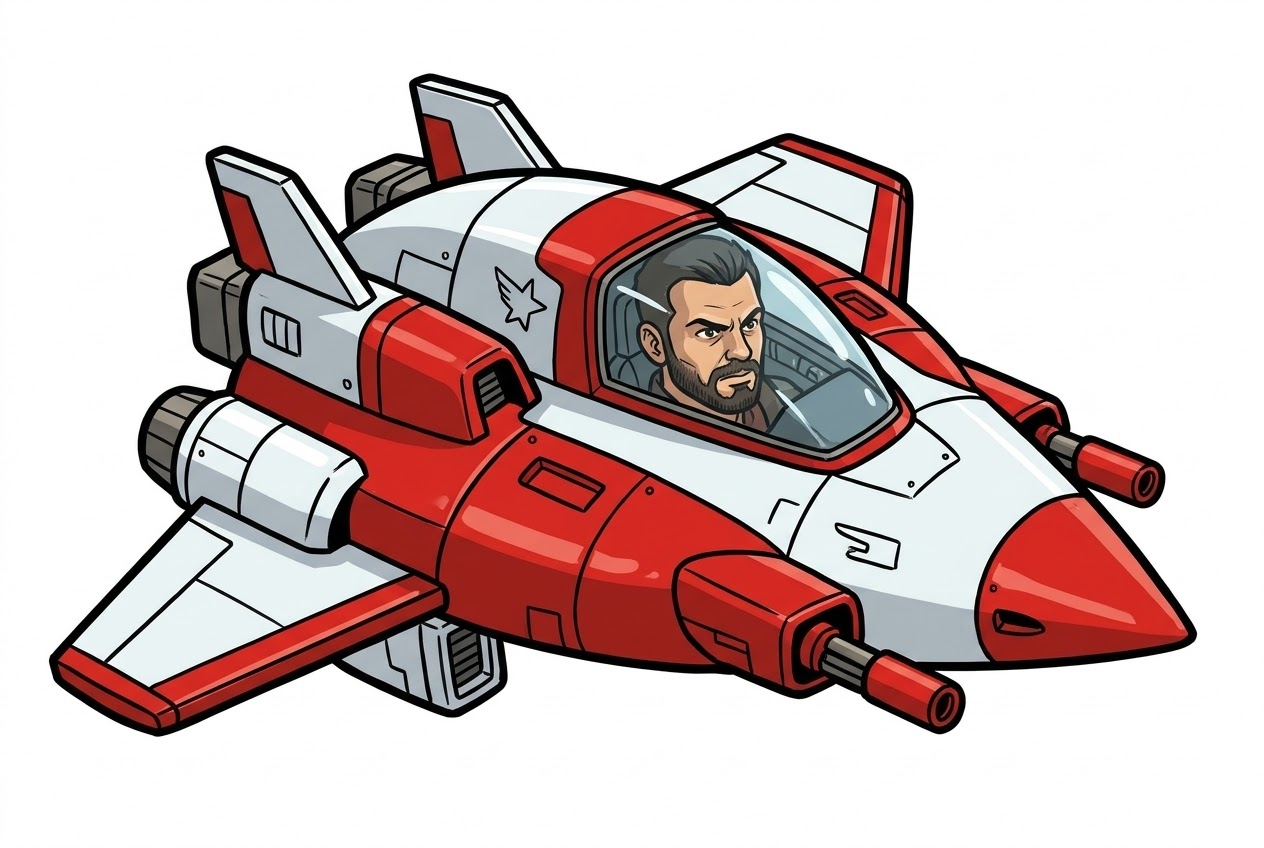
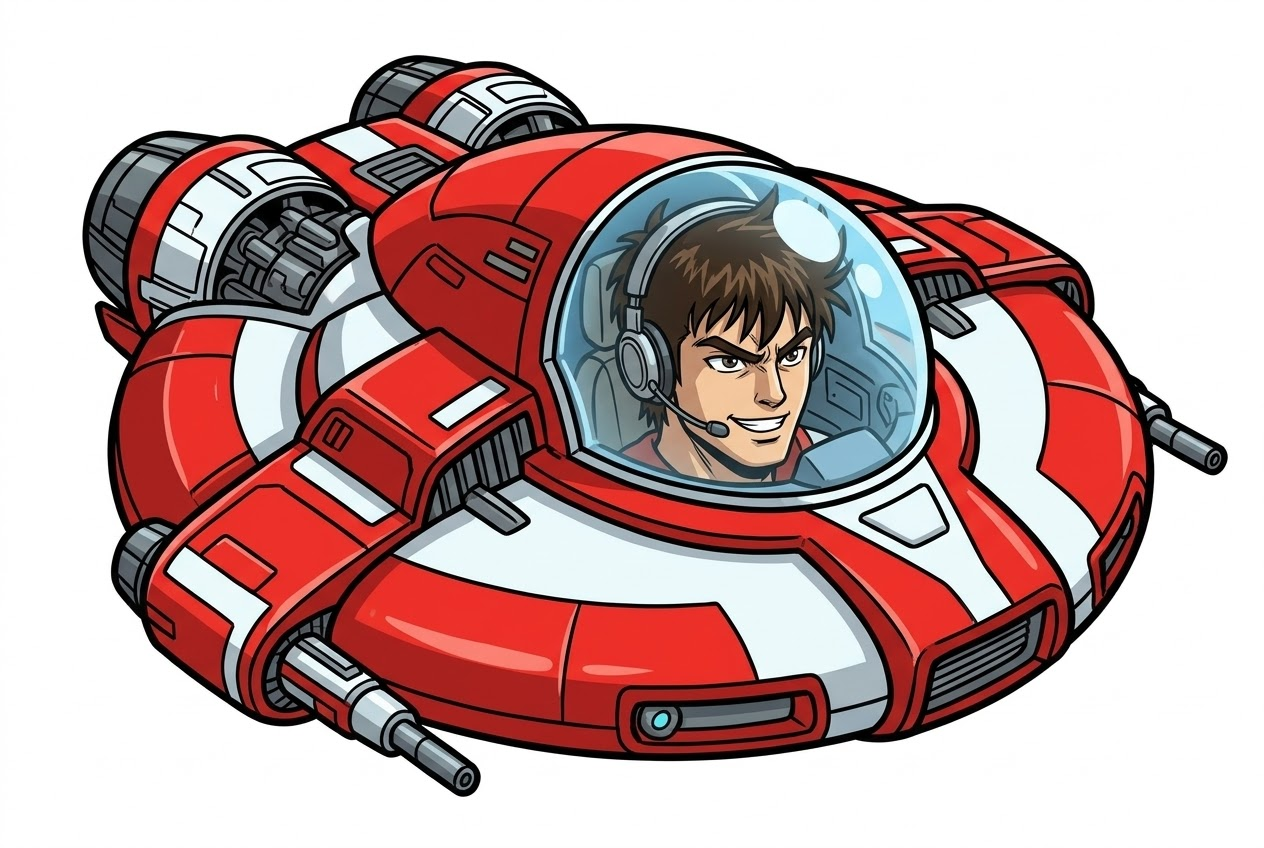
Boss final : le bon vaisseau du héros (soucoupe rouge et blanche)
Claude-Session: https://claude.ai/code/session_01Nh56uCfCYFQpr6HwXFtrQ7

diff --git a/src/bosses/finale/manifeste.js b/src/bosses/finale/manifeste.js
@@ -5,7 +5,7 @@ export const MANIFESTE = {
     finale_mecha: { fichier: 'sprites/finale/mecha.png', largeur: 406, hauteur: 594, images: 1, vitesse: 1 },
     finale_mecha_kedric: partie('kedric'), finale_mecha_remi: partie('remi'), finale_mecha_lionel: partie('lionel'),
     finale_mecha_greg: partie('greg'), finale_mecha_julien: partie('julien'), finale_mecha_beufa: partie('beufa'),
-    finale_vaisseau: { fichier: 'sprites/finale/vaisseau.png', largeur: 200, hauteur: 116, images: 1, vitesse: 1 },
+    finale_vaisseau: { fichier: 'sprites/finale/vaisseau.png', largeur: 200, hauteur: 130, images: 1, vitesse: 1 },
     finale_fond: { fichier: 'sprites/finale/fond.jpg', largeur: 2466, hauteur: 540, images: 1, vitesse: 1 },
   },
   // bruitages synthétisés : python3 outils/finale/generer_sons.py assets/audio/finale

diff --git a/NOTES.md b/NOTES.md
@@ -168,6 +168,8 @@
     explosent seuls au bout de 3 s) au lieu de la rafale. Bot NORMAL : expert 0,7 continue, moyen 1,7, enfant perd.
   - GÉNÉRIQUE : texte dans `data/generique.txt` (Fabien le corrige : « !! » grand titre, « ! » titre, « # » commentaire),
     lu par `FinaleScene.leGenerique`.
+  - VAISSEAU remplacé (Fabien s'était trompé d'image) : soucoupe rouge et blanche, pilote au casque audio ; 200 x 130
+    (`manifeste.js`) ; l'ancien gardé dans `assets_inbox/finale/ancien_vaisseau.jpg`.
   - Reste : tes retours.
 
 ## KÉDRIC — battle plus généreux (9 nov. 2026, Fabien : « on ne gagne pas assez de public, 80 % très dur »)
